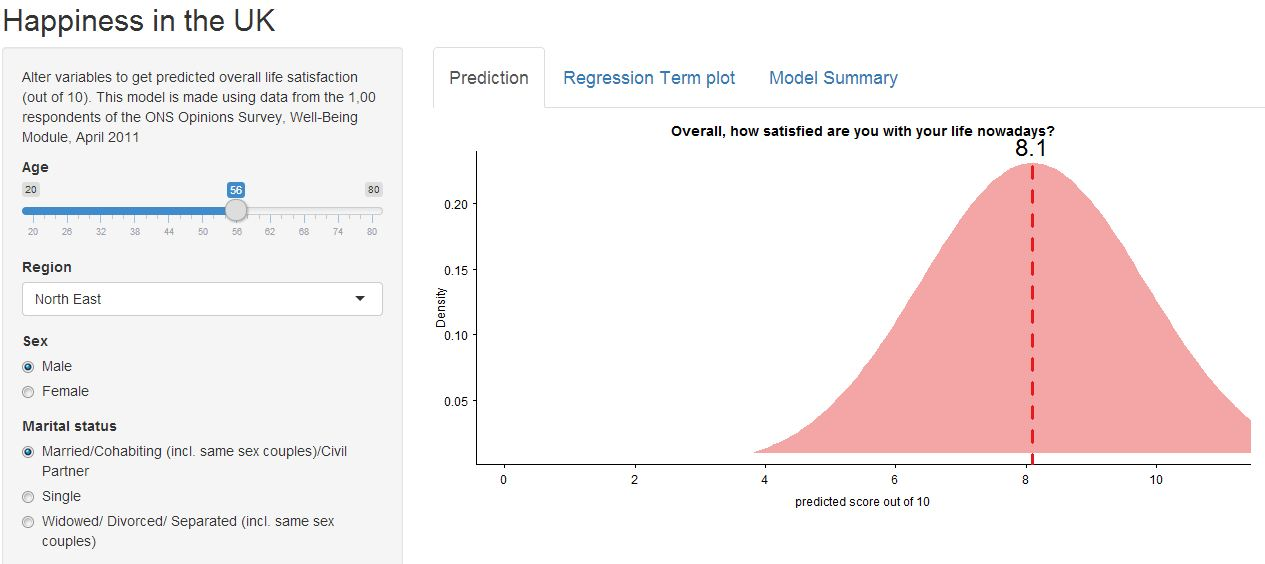
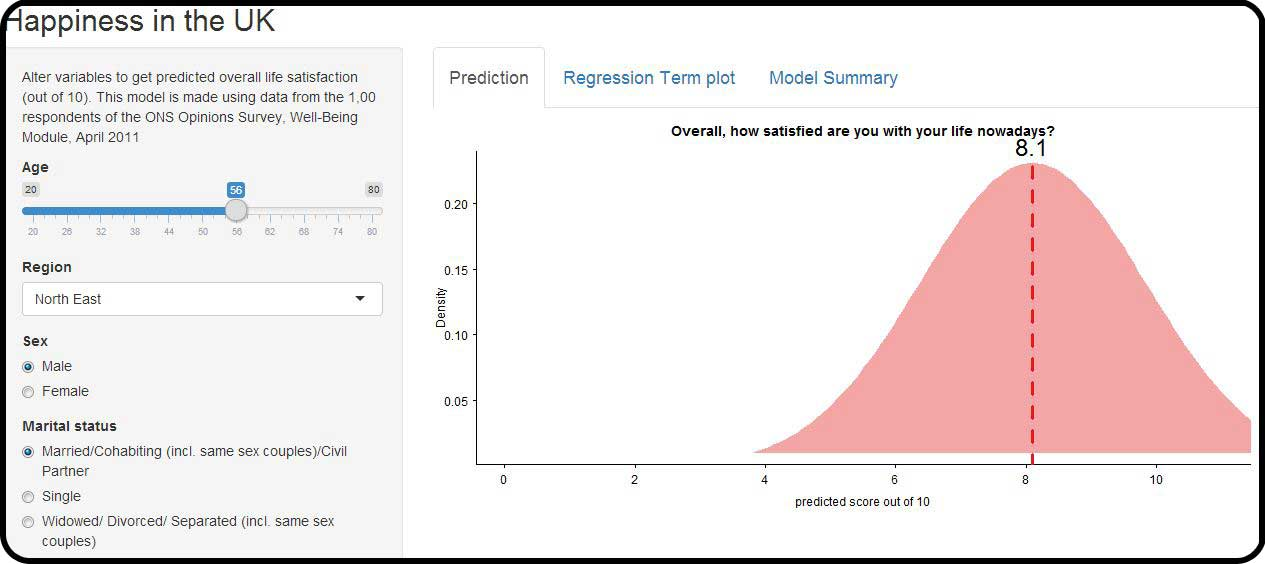
app pictures added

Changed region(s): [[0.0, 0.0, 1.0, 1.0]]

diff --git a/index.html b/index.html
@@ -3,7 +3,7 @@
  <head>
  <title>Tom Liptrot</title>
  
-<meta name="description" content="I am a data scientist working at the Christie Hospital in Manchester. My work in involves finding ways to use large amounts of data to improve patient care. I provide statistical modelling support to clinicians conducting clinical cancer research.">
+<meta name="description" content="I am a statistician working at the Christie Hospital in Manchester. My work in involves finding ways to use large amounts of data to improve patient care. I provide statistical modelling support to clinicians conducting clinical cancer research.">
 
 <link rel="stylesheet" type="text/css" href="main.css"><!-- SMOOTH SCROLL -->
 <script src="https://ajax.googleapis.com/ajax/libs/jquery/1.10.2/jquery.min.js"></script>
@@ -38,6 +38,24 @@ $(function() {
   ga('send', 'pageview');
 
 </script>
+<!-- 
+<script>
+/* Dynamic top menu positioning
+ *
+ */
+
+var num = 50; //number of pixels before modifying styles
+
+$(window).bind('scroll', function () {
+    if ($(window).scrollTop() > num) {
+        $('.header').addClass('fixed');
+    } else {
+        $('.header').removeClass('fixed');
+    }
+});
+
+//USE SCROLL WHEEL FOR THIS FIDDLE DEMO
+</script> -->
 
 </head>
 
@@ -45,12 +63,14 @@ $(function() {
 	 <div id="tlhead">
     <div class="header">
       <h1> Tom Liptrot </h1>
+	  <div>
 	  <p>  
 		<a href="#about">About</a> | 
 		<a href="#apps">Apps</a> |
 		<a href="#publications">Publications</a> |
 		<a href="#talks">Talks</a> 
 		</p>
+		</div>
     </div>
 	</div>
 	
@@ -59,7 +79,7 @@ $(function() {
    <div class="content">
     <h2> About me</h2>
 	
-    <p><img src="http://www.earl-conference.com/_London/Speakers/images/tom_liptrot.jpg" width="150" height="150" align="left">I am a data scientist working at the Christie Hospital in Manchester. The Christie is one of Europe's largest specialist cancer hospitals. My work in involves finding ways to use large amounts of data to improve patient care. I provide statistical modelling support to clinicians conducting clinical cancer research. My interests lie in the analysis of large complex datasets and I am conducting research into text-mining of electronic patient records collaborating with <a href="http://www.cs.manchester.ac.uk/">Manchester University</a>. Techniques I use include elastic net regularised regression, Bayesian hierarchical modelling, GAMs, GLMs  and parametric and non-parametric survival modelling.  I use the <a href="http://www.r-project.org/" target="tab">R programming language</a> for most of my analysis. 
+    <p><img src="http://www.earl-conference.com/_London/Speakers/images/tom_liptrot.jpg" width="150" height="150" align="left">I am a Data Scientist working at the Christie Hospital in Manchester. The Christie is one of Europe's largest specialist cancer hospitals. My work in involves finding ways to use large amounts of data to improve patient care. I provide statistical modelling support to clinicians conducting clinical cancer research. My interests lie in the analysis of large complex datasets and I am conducting research into text-mining of electronic patient records collaborating with <a href="http://www.cs.manchester.ac.uk/">Manchester University</a>. Techniques I use include elastic net regularised regression, Bayesian hierarchical modelling, GAMs, GLMs  and parametric and non-parametric survival modelling.  I use the <a href="http://www.r-project.org/" target="tab">R programming language</a> for most of my analysis. 
 	
 	<p>I have made some <a href="#apps">shiny apps</a>, I have <a href="#publications">published some papers</a> and I have <a href="#talks">given some talks</a>.</p>
 	
@@ -77,15 +97,44 @@ $(function() {
    <div class="content">
 	<h2> Shiny Applications</h2>
 	<p><a href = 'http://shiny.rstudio.com/' target="_blank">Shiny</a> is a web application framework for R. It allows users to quickly create interactive web applications based on analysis done in R. I have created a couple of publicly available shiny apps and an R package that makes it even more simple to create predictive shiny apps.</p>
-	<h3><a href="https://tomliptrot.shinyapps.io/international_jobs" target="_blank">International Jobs</a> </h3>
-	<p>This app is for finding a job anywhere in the world. It connects to the <a href = 'http://www.indeed.co.uk/jsp/apiinfo.jsp'>Indeed API</a> and searches all 54 international indeed websites, returning the results on a map of the world</p>
 	
-	<h3><a href="https://tomliptrot.shinyapps.io/IL2_response">IL2 Response</a> </h3>
-	<p>This app is for predicting patient response to the kidney cancer drug <a href ='http://www.cancerresearchuk.org/about-cancer/cancers-in-general/treatment/cancer-drugs/aldesleukin-or-il2' target="_blank">IL-2</a>It is still fairly experimental at this stage.</p>
+	<!-- TODO: make all images same shape -->
+	<div class="container">
+	
+   <div class="column-center">
+   
+   <h3>International Jobs</h3>
+   <a href="https://tomliptrot.shinyapps.io/international_jobs">
+   <img src="jobs_app.jpg" alt="International Jobs app" width="95%" /></a>
+   
+		<p>This app is for finding a job anywhere in the world. It connects to the <a href = 'http://www.indeed.co.uk/jsp/apiinfo.jsp'>Indeed API</a> and searches all 54 international indeed websites, returning the results on a map of the world</p>
+   </div>
+   
+   
+   <div class="column-left">
+   <h3>IL2 Response </h3>
+   
+      <a href="https://tomliptrot.shinyapps.io/IL2_response">
+   <img src="il2app.jpg" alt="IL2 app" width="95%" /></a>
+   
+	<p>This app is for predicting patient response to the kidney cancer drug <a href ='http://www.cancerresearchuk.org/about-cancer/cancers-in-general/treatment/cancer-drugs/aldesleukin-or-il2' target="_blank">IL-2. </a>It is still fairly experimental at this stage.</p>
 
-	<h3><a href="https://github.com/tomliptrot/predictshine">predictshine</a> </h3>
+   </div>
+   
+   
+   
+   
+   <div class="column-right">
+   <h3>predictshine</h3>
+   
+   <a href="https://github.com/tomliptrot/predictshine">
+   <img src="lm_predictshine.JPG" alt="IL2 app" width="95%" /></a>
+   
 	<p>This is an R package that allows users to create interactive shiny based web-apps to make predictions about individuals. its main function predictshine() works similarly to the predict() function. First the user creates a statistical model, then calls predictshine() to bring up a browser based interface to predict the dependent variable based user entered changes to the independent variables. This app can the be shared with anyone via the web.
 	</p>
+   </div>
+</div>
+
 	<a href="#tlhead">Top</a> 
   </div>
     </div>

diff --git a/main.css b/main.css
@@ -10,7 +10,7 @@ font-family: "Arial";
   /*background-image:url(https://chrisaam.files.wordpress.com/2015/03/wallpaper-2846361.jpg);*/
   background-size:cover;
   position:relative;
-  height:100vh;
+  height:80vh;
 }
 
 #tlhead h1{
@@ -18,10 +18,10 @@ font-family: "Arial";
 	margin-bottom: 1px;
 }
 
-.header a:link    {color:#000000; background-color:transparent; text-decoration:none}
-.header a:visited {color:#000000; background-color:transparent; text-decoration:none}
-.header a:hover   {color:#000000; background-color:transparent; text-decoration: underline}
-.header a:active  {color:#000000; background-color:transparent; text-decoration:none}
+.header a:link    {color:#000000; background-color:white; text-decoration:none}
+.header a:visited {color:#000000; background-color:white; text-decoration:none}
+.header a:hover   {color:#000000; background-color:white; text-decoration: underline}
+.header a:active  {color:#000000; background-color:white; text-decoration:none}
 
 
 .header{
@@ -35,6 +35,7 @@ font-size: 35px;
   -ms-transform: translate(0,-50%); /* IE 9 */
    	-webkit-transform: translate(0,-50%); /* Safari */
     transform: translate(0,-50%);  
+	background-color:white
 
 }
 
@@ -43,7 +44,7 @@ font-size: 35px;
   font-size: 20px;
   text-align:left;
   width:75%;
-  margin:0px auto;
+  margin:5px 50px 75px 100px; 
   }
   
  .content a{color:#000000; background-color:transparent}
@@ -61,6 +62,20 @@ font-size: 35px;
     border: 1px solid #ffffff;
 }
 
+
+.menu {
+    background:#345;
+    color:#FFF;
+    height:2em;
+    padding:.5em;
+    position:absolute;
+    top:50px;
+    width:100%;
+}
+.fixed {
+    position:fixed;
+    top:0;
+}
 /* #bibtex_display{
   padding:100px 50px;
   font-size: 20px;
@@ -74,6 +89,16 @@ font-size: 35px;
 #content h2{
   margin:0px 0px 30px 0px;
 }
+
+
+.content #portfolio-item {
+	width: 500px; padding: 4px; background: #eee; text-align: center;
+	float: left; margin: 0 7px 14px 7px;
+}
+
+.column-left{ float: left; width: 33%; text-align:center;}
+.column-right{ float: right; width: 33%; text-align:center;}
+.column-center{ display: inline-block; width: 33%;text-align:center; }
 
 #footer{
   padding:30px 0px;
